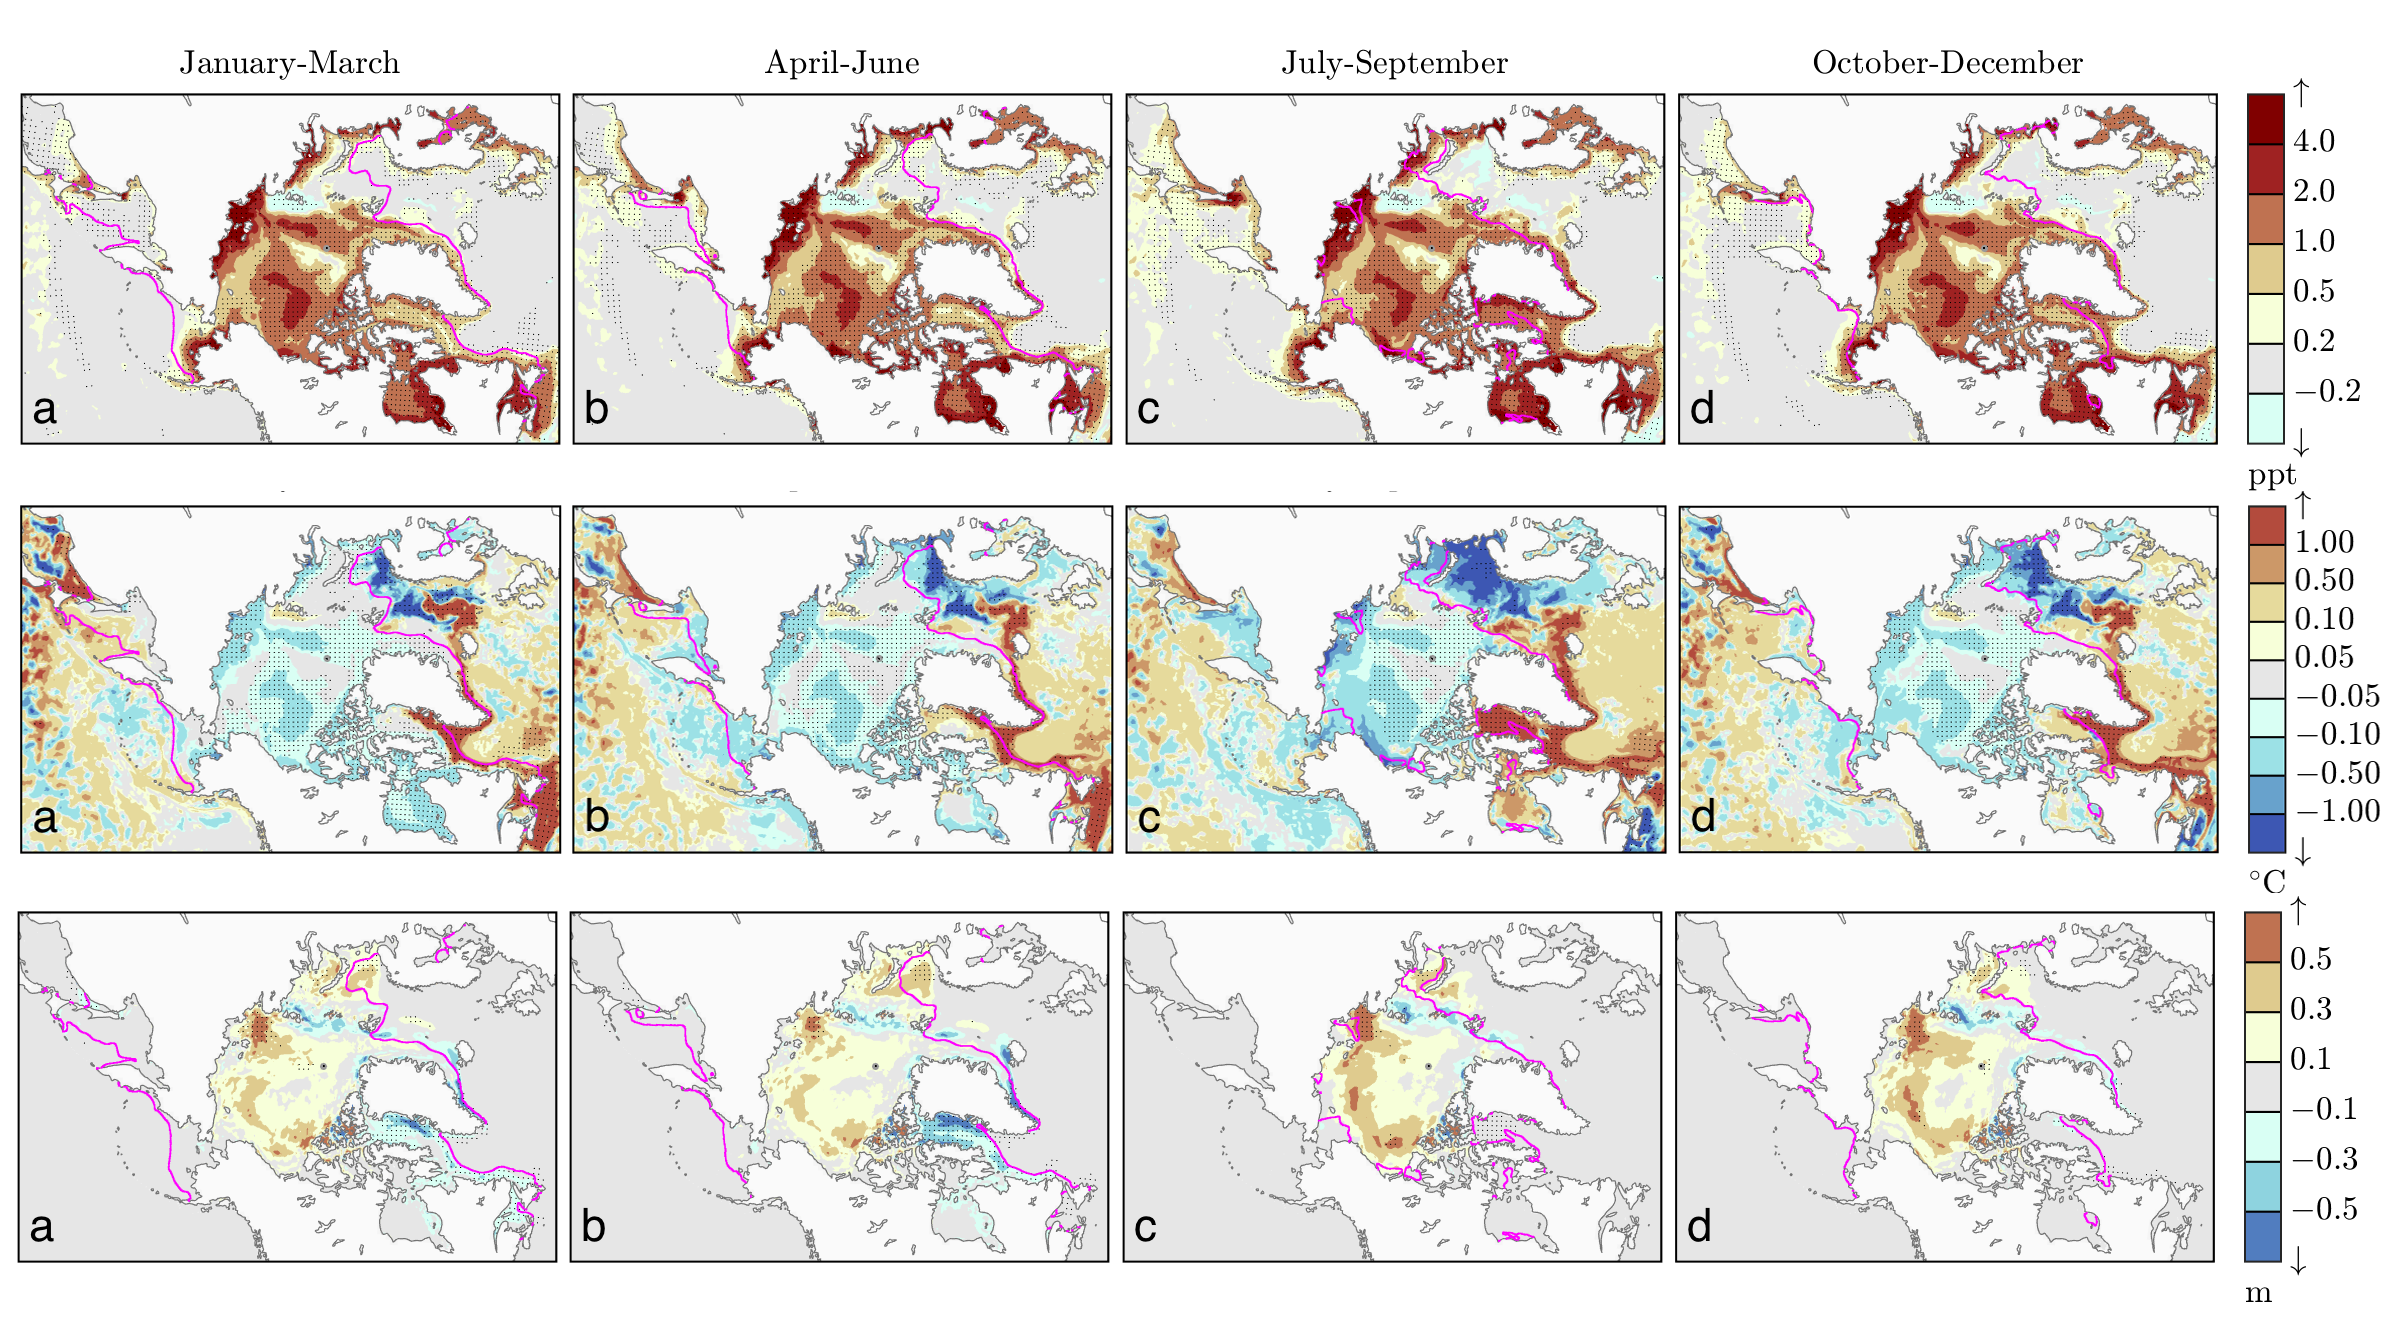
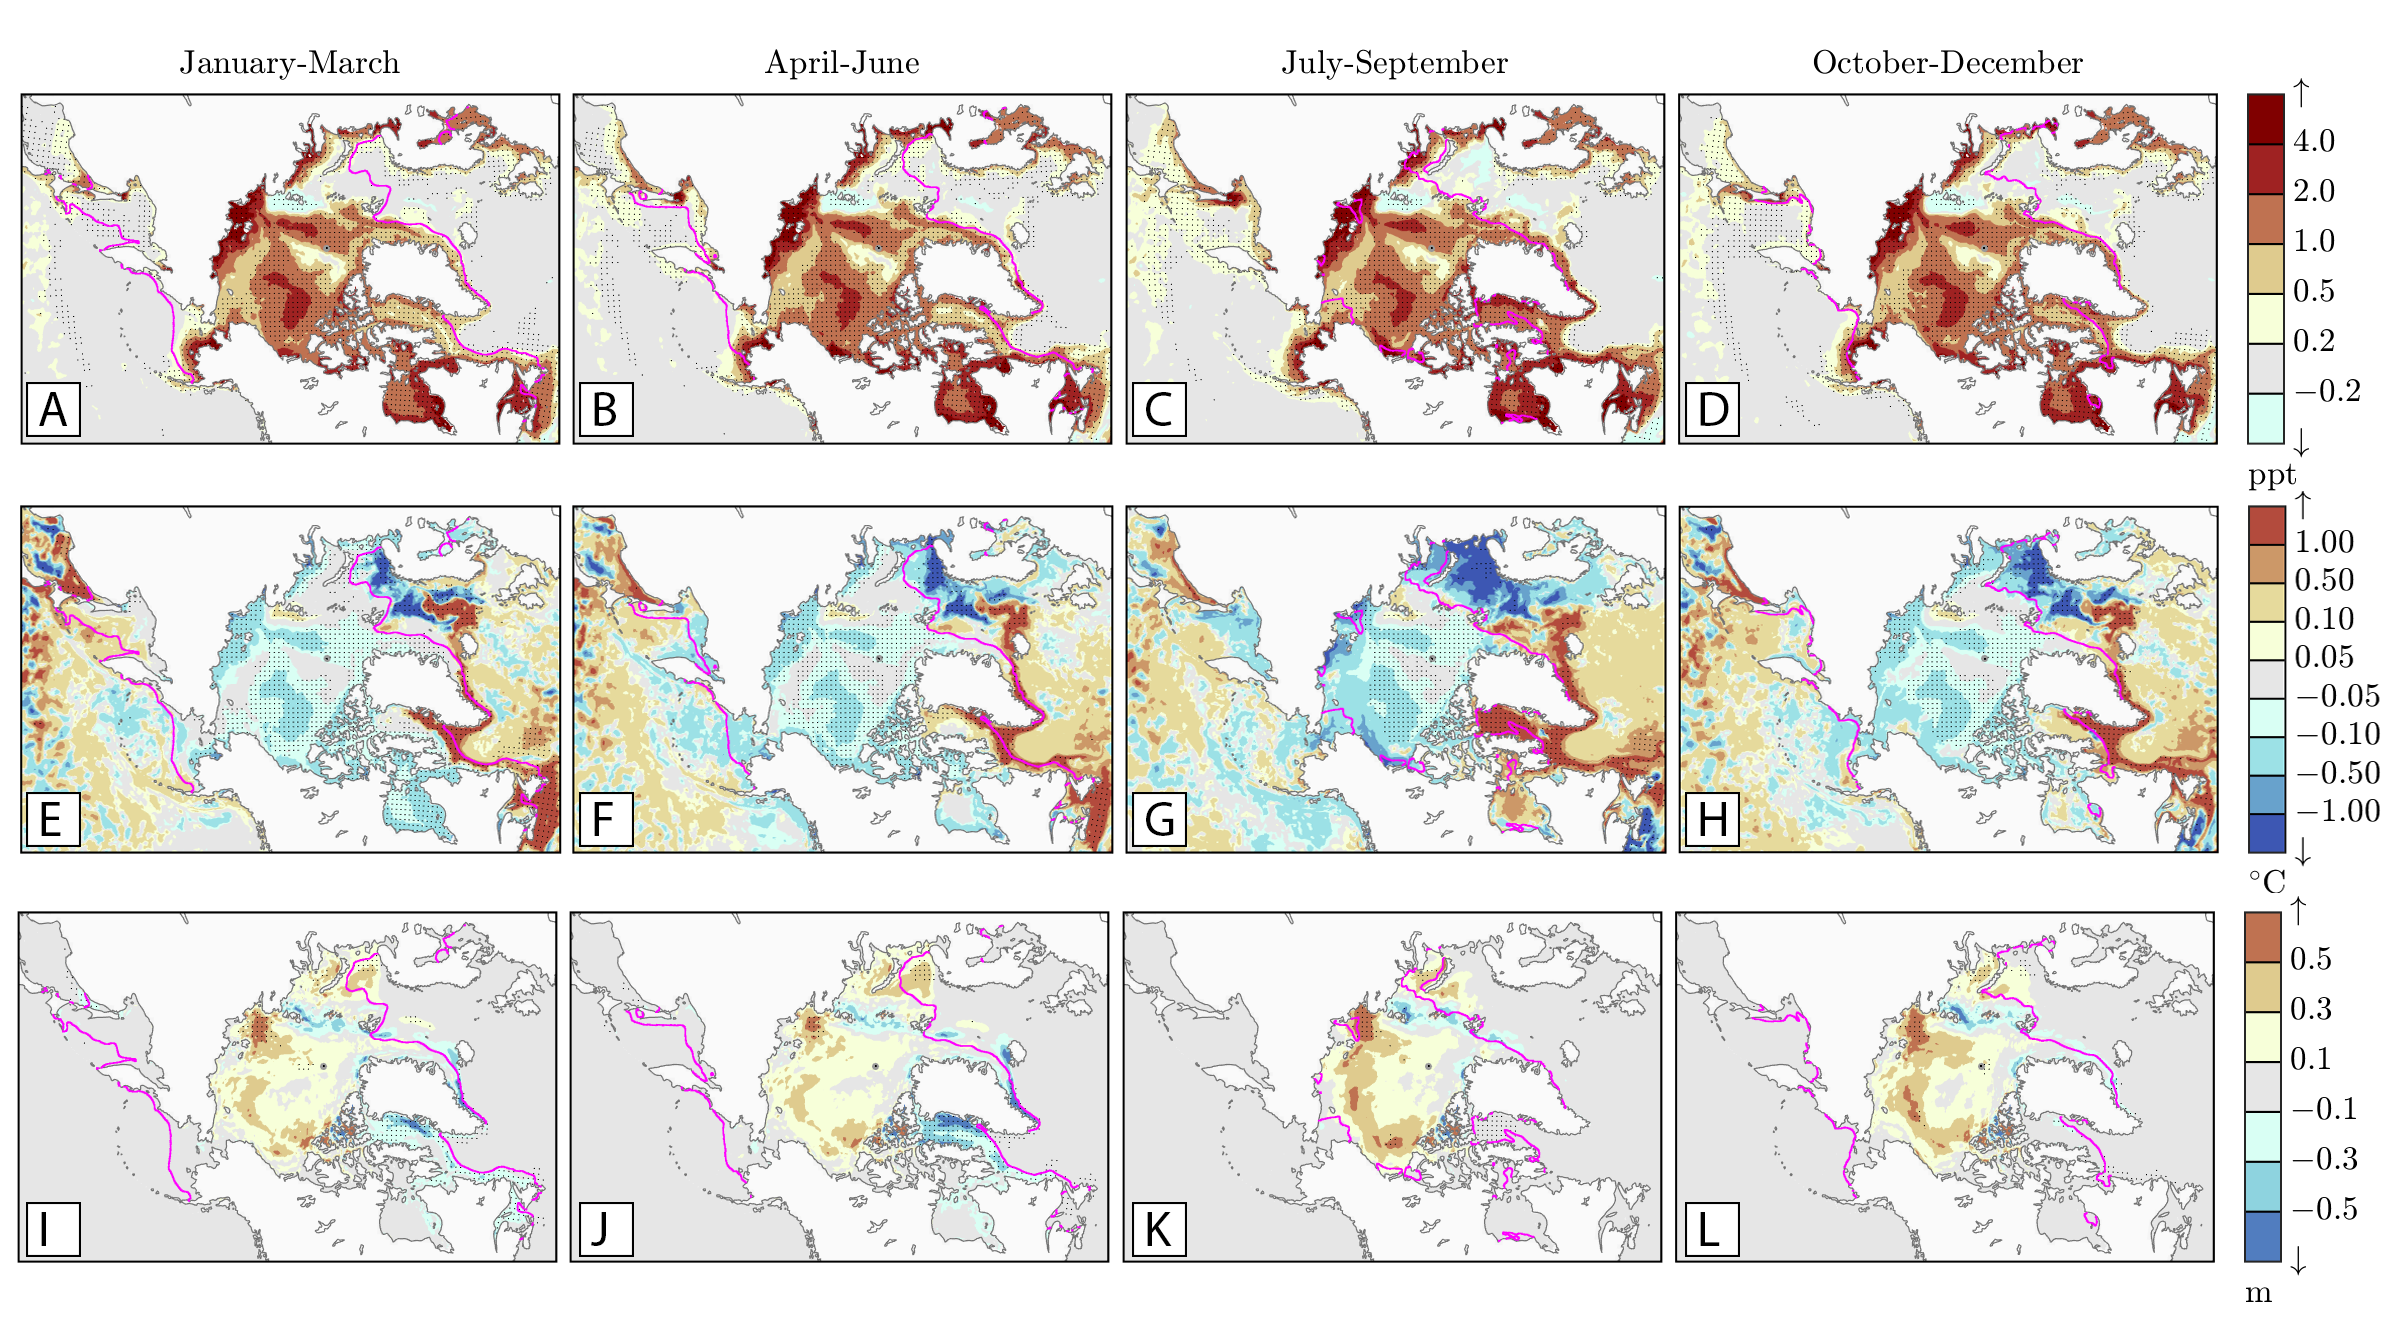
updates after merging in new figures

diff --git a/main.tex b/main.tex
@@ -581,7 +581,7 @@ Supercomputing resources were provided through the United States Department of D
 \clearpage
 \begin{figure}
 \noindent\includegraphics[width=40pc,natwidth=1]{uh_remap_schematic}
-\caption{Example of a remapped unit hydrograph grid for outlet location of Mackenzie River at Arctic Red River. This figure depicts the fraction of runoff generated reaching the outlet point on day 25 for the 1/16th degree grid (upper left) and the RASM 50-km grid (upper right). The unit hydrographs for the gridcell indicated by the red circle in the center of the basin are shown in the timeseries at the bottom of the figure. TODO: update schematics, showing RVIC version and 6 basins used in this study.}
+\caption{Example of a remapped unit hydrograph grid for outlet location of Mackenzie River at Arctic Red River. This figure depicts the fraction of runoff generated reaching the outlet point on day 25 for the 1/16th degree grid (upper left) and the RASM 50-km grid (upper right). The unit hydrographs for the gridcell indicated by the red circle in the center of the basin are shown in the timeseries at the bottom of the figure.}
 \label{fig:uh_remap_schematic}
 \end{figure}
 
@@ -595,7 +595,7 @@ Supercomputing resources were provided through the United States Department of D
 \clearpage
 \begin{figure}
 \noindent\includegraphics[width=40pc,natwidth=1]{R1010RBRbaaa01a_rvicfast_hydrographs}
-\caption{Routed hydrographs for largest 6 river basins compared to observations from \citet{Dai_2009}. TODO: add subplot labels (e.g. A, B, C...)}
+\caption{Routed hydrographs for largest 6 river basins compared to observations from \citet{Dai_2009}.}
 \label{fig:hydrographs}
 \end{figure}
 
@@ -609,14 +609,14 @@ Supercomputing resources were provided through the United States Department of D
 \clearpage
 \begin{figure}
 \noindent\includegraphics[width=40pc,natwidth=1]{ocean_combine_ts}
-\caption{Monthly timeseries (1980-2009) of domain-wide (left) and central arctic (right) streamflow (top), mean SSS (middle), and SST (bottom) for the $RASM_{CONTROL}$ (blue) and $RASM_{NOROF}$ (green). The dashed lines show a 24-month running mean. TODO: update units in streamflow panel --> mm/month.}
+\caption{Monthly timeseries (1980-2009) of domain-wide (left) and central arctic (right) streamflow (top), mean SSS (middle), and SST (bottom) for the $RASM_{CONTROL}$ (blue) and $RASM_{NOROF}$ (green). The dashed lines show a 24-month running mean.}
 \label{fig:ocean_timeseries}
 \end{figure}
 
 \clearpage
 \begin{figure}
 \noindent\includegraphics[width=40pc,natwidth=1]{ocean_combine}
-\caption{Seasonal difference ($RASM_{NOROF}$ - $RASM_{CONTROL}$) in mean sea surface salinity (top), sea surface temperature (middle), and sea ice height (bottom) (2000-2009). Stippling denotes differences that are statistically significant at the 95 percent confidence interval. TODO: update subplot labels (e.g. A, B, C...)}
+\caption{Seasonal difference ($RASM_{NOROF}$ - $RASM_{CONTROL}$) in mean sea surface salinity (top), sea surface temperature (middle), and sea ice height (bottom) (2000-2009). Stippling denotes differences that are statistically significant at the 95 percent confidence interval.}
 \label{fig:ocean_maps}
 \end{figure}
 
